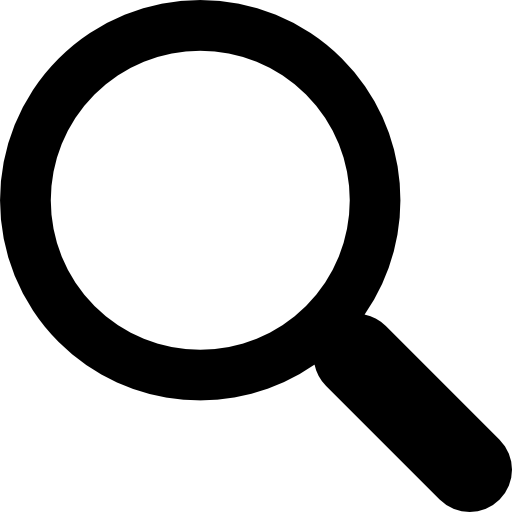
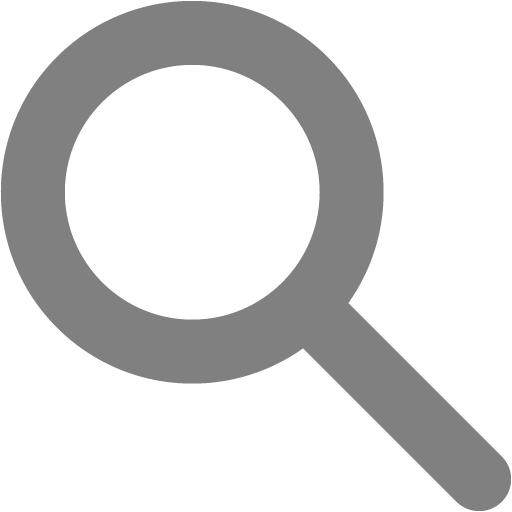
Added style

diff --git a/src/assets/styles/style.css b/src/assets/styles/style.css
@@ -1,4 +1,69 @@
 body {
     height: 100vh;
-     background: #1B1C1B;
- }
+    background: #1B1C1B;
+    user-select: none;
+    user-zoom: none;
+    position: relative;
+}
+
+.searchBar {
+    width: 50%;
+    margin: 0 auto;
+    position: absolute;
+    top: 35%;
+    left: 50%;
+    transform: translate(-50%, -50%);
+    -webkit-transform: translate(-50%, -50%);
+    -moz-transform: translate(-50%, -50%);
+    -ms-transform: translate(-50%, -50%);
+    -o-transform: translate(-50%, -50%);
+    text-align: center;
+}
+
+.searchBar img{
+    height: 232px;
+}
+
+.searchInput {
+    width: 85%;
+    margin: 0 auto;
+}
+
+.searchInput input {
+    height: 46px;
+    background: #343334;
+    width: 94%;
+    padding: 15px;
+    outline: none;
+    border-radius: 6px 0px 0px 6px;
+    -webkit-border-radius: 6px 0px 0px 6px;
+    -moz-border-radius: 6px 0px 0px 6px;
+    -ms-border-radius: 6px 0px 0px 6px;
+    -o-border-radius: 6px 0px 0px 6px;
+    color: #EEEEEE;
+    font-size: 16px;
+}
+
+.searchInput a {
+    height: 46px;
+    cursor: pointer;
+    padding: 6px;
+    background: #343334;
+    border-radius: 0px 6px 6px 0px;
+    transition: all .2s linear;
+    -webkit-transition: all .2s linear;
+    -moz-transition: all .2s linear;
+    -ms-transition: all .2s linear;
+    -o-transition: all .2s linear;
+    margin-left: -2px;
+}
+
+.searchInput a:hover {
+    background: #444444;
+}
+
+.searchInput a img {
+    height: 32px;
+    width: 32px;
+    padding: 4px 2px 4px 2px;
+}
